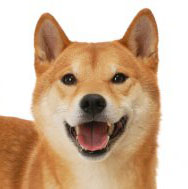
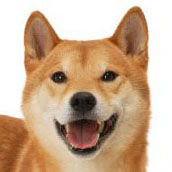
add css grid to about us page and edit dog photo sizes

diff --git a/aboutus.html b/aboutus.html
@@ -24,33 +24,70 @@
         </ul>
     </nav>
     <main>
-        <div>
-            <h2>About Us</h2>
-            <p>Lorem ipsum dolor sit amet, consectetur adipisicing elit. Maxime voluptatem eligendi iusto excepturi amet earum dolor. Cum veniam cumque eaque quia vitae quisquam dolorem ipsum debitis, quo itaque. Sequi, velit.
-            </p>
-            <div>
+        <h1>About Us</h1>
+        <p>Lorem ipsum dolor sit amet, consectetur adipisicing elit. Maxime voluptatem eligendi iusto excepturi amet earum dolor. Cum veniam cumque eaque quia vitae quisquam dolorem ipsum debitis, quo itaque. Sequi, velit.
+        </p>
+        
+        <div class="grid">
+            <div class="box goosepic">
+            <figure>
                 <img src="./resources/dog-photos/bulldog.jpg" alt="bulldog">
-                <h3>Goose</h3>
-            <img src="./resources/dog-photos/corgi.jpg" alt="corgi">
-                <h3>Tofu</h3>
-            <img src="./resources/dog-photos/dalmatian.jpg" alt="dalmatian">
-                <h3>Spot</h3>
-            <img src="./resources/dog-photos/labrador.jpg" alt="labrador">
-                <h3>Dexter</h3>
-            <img src="./resources/dog-photos/shiba.jpg" alt="shiba inu">
-                <h3>Sunny</h3>
+                <figcaption>Goose</figcaption>
+            </figure>
+            </div>
+
+            <div class="box tofupic">
+            <figure>
+                <img src="./resources/dog-photos/corgi.jpg" alt="corgi">
+                <figcaption>Tofu</figcaption>
+            </figure>
             </div>
             
+            <div class="box spotpic">
+            <figure>
+                <img src="./resources/dog-photos/dalmatian.jpg" alt="dalmatian">
+                <figcaption>Spot</figcaption>
+            </figure>
+            </div>
+            
+            <div class="box dexterpic">
+            <figure>
+                <img src="./resources/dog-photos/labrador.jpg" alt="labrador">
+                <figcaption>Dexter</figcaption>
+            </figure>
+            </div>
+
+            <div class="box sunnypic">
+            <figure>
+                <img src="./resources/dog-photos/shiba.jpg" alt="shiba inu">
+                <figcaption>Sunny</figcaption>
+            </figure>
+            </div>
+        
+            <div class="box goose">
             <h3>Goose</h3>
             <p>Lorem ipsum dolor sit amet, consectetur adipisicing elit. Fugiat corporis dolorum tempora dicta error sed architecto voluptate repellat! Vero numquam cum, distinctio harum culpa modi adipisci dolorum deserunt laboriosam quas.</p>
+            </div>
+
+            <div class="box tofu">
             <h3>Tofu</h3>
             <p>Lorem ipsum dolor sit amet, consectetur adipisicing elit. Fugiat corporis dolorum tempora dicta error sed architecto voluptate repellat! Vero numquam cum, distinctio harum culpa modi adipisci dolorum deserunt laboriosam quas.</p>
+            </div>
+
+            <div class="box spot">
             <h3>Spot</h3>
             <p>Lorem ipsum dolor sit amet, consectetur adipisicing elit. Fugiat corporis dolorum tempora dicta error sed architecto voluptate repellat! Vero numquam cum, distinctio harum culpa modi adipisci dolorum deserunt laboriosam quas.</p>
+            </div>
+        
+            <div class="box dexter">            
             <h3>Dexter</h3>
             <p>Lorem ipsum dolor sit amet, consectetur adipisicing elit. Fugiat corporis dolorum tempora dicta error sed architecto voluptate repellat! Vero numquam cum, distinctio harum culpa modi adipisci dolorum deserunt laboriosam quas.</p>
+            </div>
+            
+            <div class="box sunny">
             <h3>Sunny</h3>
             <p>Lorem ipsum dolor sit amet, consectetur adipisicing elit. Fugiat corporis dolorum tempora dicta error sed architecto voluptate repellat! Vero numquam cum, distinctio harum culpa modi adipisci dolorum deserunt laboriosam quas.</p>
+            </div>
         </div>
     </main>
 </body>

diff --git a/resources/css/style.css b/resources/css/style.css
@@ -10,6 +10,13 @@ html {
     flex-wrap: wrap;
 }
 
+main {
+    margin-top: 80px;
+    text-align: center;
+}
+
+
+/* nav stuff */
 nav {
     background-color: #cefff5;
     position: fixed;
@@ -26,10 +33,6 @@ nav {
 nav label, #hamburger {
     display: none;
 }
-
-/* nav * {
-    display: inline;
-} */
 
 nav ul {
     list-style-type: none;
@@ -49,6 +52,8 @@ text-decoration-line: none;
 text-transform: uppercase;
 }
 
+
+/* headings */
 header {
     text-align: center;
 }
@@ -63,11 +68,7 @@ h1 {
 }
 
 
-main {
-    margin-top: 80px;
-    text-align: center;
-}
-
+/* images */
 .jumbotron img {
     height: 70%;
     width: 70%;
@@ -102,6 +103,61 @@ figure {
     margin: 10px;
 }
 
+/* below are images on about me page */
+.box img {
+    height: 25%;
+    width: auto;
+    margin: 10px;
+    border: 5px solid #ffdbcf;
+    border-radius: 50% 50%;
+} 
+
+/* about us page */
+/* utilizes CSS grid */
+.grid {
+    display: grid;
+    height: 200px;
+    width: auto;
+    grid-template: repeat(5, 1fr) / 1fr 3fr;
+    grid-gap: 30px;
+}
+
+.goosepic {
+    grid-row-start: 1;
+    grid-row-end: 2;
+}
+
+.tofupic {
+    grid-row-start: 2;
+    grid-row-end: 3;
+}
+
+.spotpic {
+    grid-row-start: 3;
+    grid-row-end: 4;
+}
+
+.dexterpic {
+    grid-row-start: 4;
+    grid-row-end: 5;
+}
+
+.sunnypic {
+    grid-row-start: 5;
+    grid-row-end: 6;
+}
+
+.goose,
+.tofu,
+.spot,
+.dexter,
+.sunny {
+    grid-column-start: 2;
+    grid-column-end: 4;
+    text-align: left;
+}
+
+/* contact us page */
 /* contact us form */
 form {
     text-align: left;
@@ -146,6 +202,8 @@ input[type=submit] {
         width: 30%;
 
     }
+
+    /* hamburger stuff */
     nav {
         background-color: #E8FFFA;
     }
